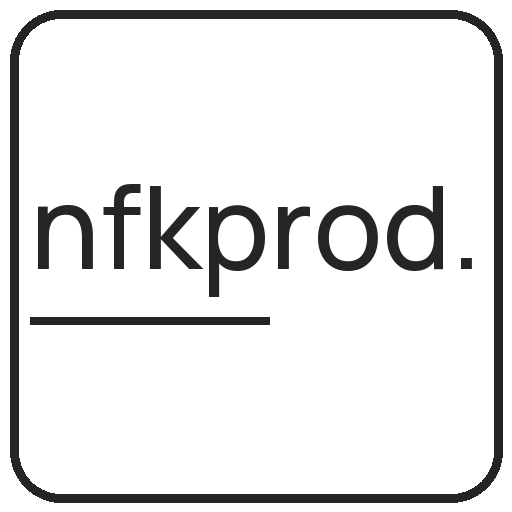
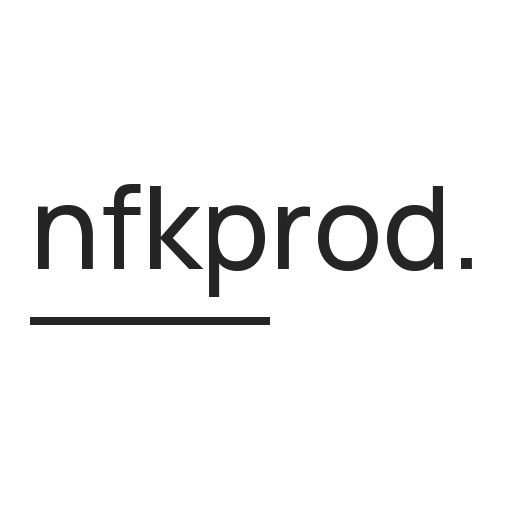
Remove wordmark frames and include VFX in brand signature

Changed region(s): [[0.0, 0.0, 1.0, 1.0]]

diff --git a/app/layout.tsx b/app/layout.tsx
@@ -17,21 +17,21 @@ const manrope = Manrope({
 export const metadata: Metadata = {
   metadataBase: new URL("https://nfkprod.ru"),
   icons: {
-    icon: [{ url: "/brand/icon-wordmark-v3.svg", type: "image/svg+xml" }, { url: "/brand/favicon-wordmark-v3.ico" }, { url: "/brand/icon-wordmark-v3.png", type: "image/png", sizes: "512x512" }],
-    apple: [{ url: "/brand/apple-wordmark-v3.png", sizes: "180x180" }],
+    icon: [{ url: "/brand/icon-wordmark-v4.svg", type: "image/svg+xml" }, { url: "/brand/favicon-wordmark-v4.ico" }, { url: "/brand/icon-wordmark-v4.png", type: "image/png", sizes: "512x512" }],
+    apple: [{ url: "/brand/apple-wordmark-v4.png", sizes: "180x180" }],
   },
   title: {
-    default: "NFKPROD - Motion, CGI, AI",
+    default: "NFKPROD - Motion, CGI, VFX & AI",
     template: "%s | NFKPROD",
   },
   openGraph: {
-    title: "NFKPROD - Motion, CGI, AI",
+    title: "NFKPROD - Motion, CGI, VFX & AI",
     type: "website",
     locale: "ru_RU",
     siteName: "NFKPROD",
     images: [
       {
-        url: "/brand/og-wordmark-v3.png",
+        url: "/brand/og-wordmark-v4.png",
         width: 1200,
         height: 630,
         alt: "NFKPROD",
@@ -40,8 +40,8 @@ export const metadata: Metadata = {
   },
   twitter: {
     card: "summary_large_image",
-    title: "NFKPROD - Motion, CGI, AI",
-    images: ["/brand/og-wordmark-v3.png"],
+    title: "NFKPROD - Motion, CGI, VFX & AI",
+    images: ["/brand/og-wordmark-v4.png"],
   },
 };
 

diff --git a/components/RouteTransition.tsx b/components/RouteTransition.tsx
@@ -111,7 +111,7 @@ export default function RouteTransition({ children }: { children: ReactNode }) {
     {children}
     <div className={`route-transition route-transition--${phase}`} aria-hidden="true">
       <div className="route-transition-wordmark"><span>nfkprod.</span></div>
-      <div className="route-transition-bottom"><span>{label}</span><span>Motion / CGI / AI</span></div>
+      <div className="route-transition-bottom"><span>{label}</span><span>Motion / CGI / VFX / AI</span></div>
     </div>
   </div>;
 }

diff --git a/components/Footer.tsx b/components/Footer.tsx
@@ -14,7 +14,7 @@ export default function Footer() {
       </Link>
       <div className="footer-bottom">
         <span>© {new Date().getFullYear()} NFKPROD</span>
-        <span>MOTION / CGI / AI</span>
+        <span>MOTION / CGI / VFX / AI</span>
         <div>
           <a
             href="https://www.instagram.com/nfkprod"

diff --git a/components/Hero.tsx b/components/Hero.tsx
@@ -169,7 +169,7 @@ export default function Hero({ locale = "ru" }: { locale?: Locale }) {
           <span>
             Independent visual creator
             <br />
-            Motion / CGI / AI
+            Motion / CGI / VFX / AI
           </span>
           <div className="film-actions">
             {!reduced && (
